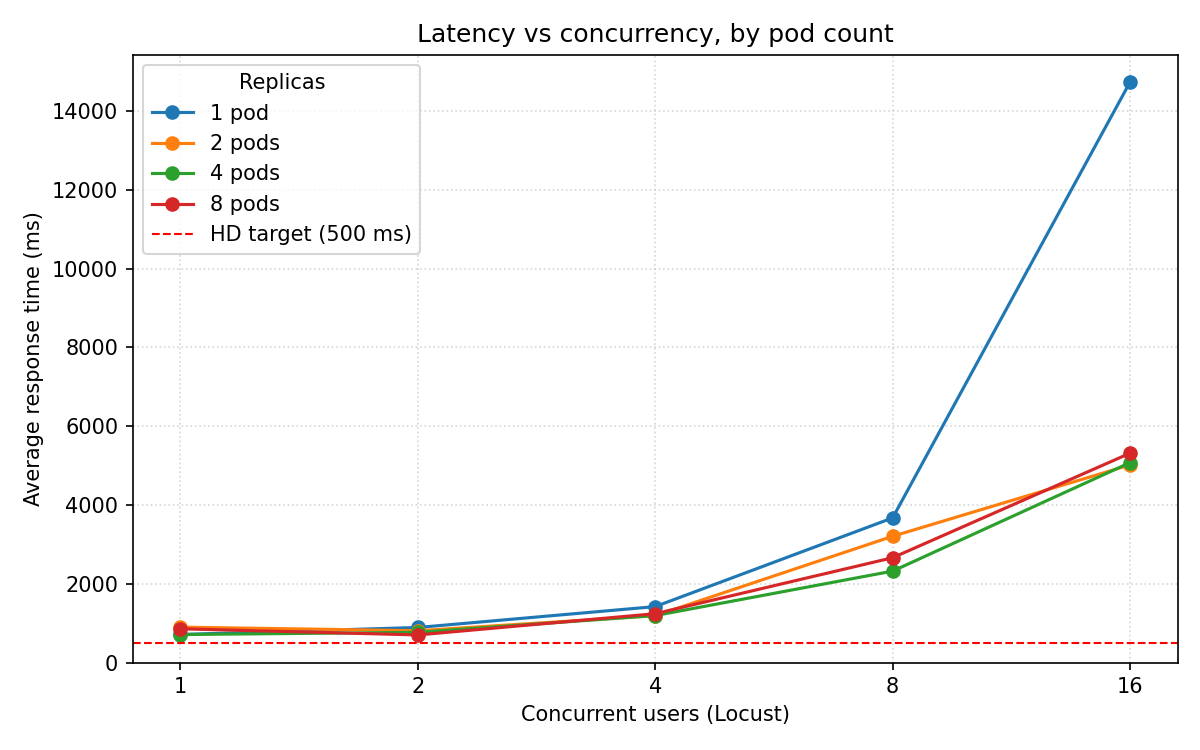
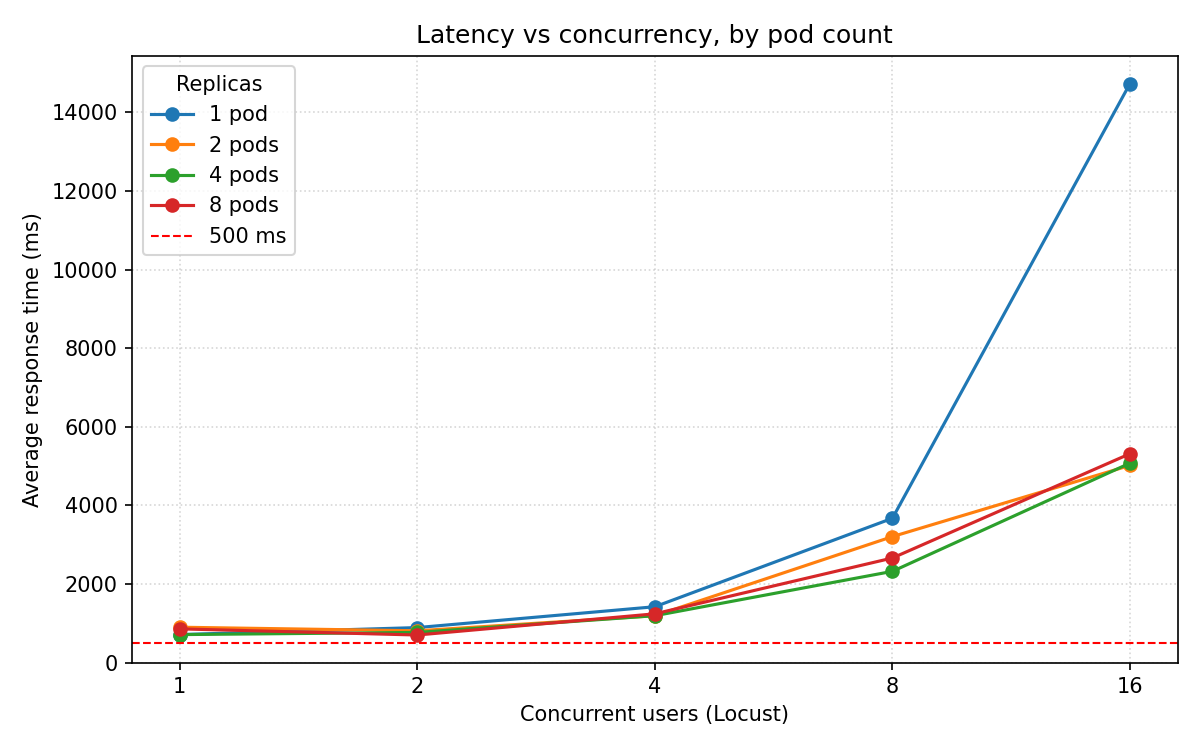
tidied plot legend + redefining breaking point to where failures > 0 or the latency growth ratio is double the number of users

diff --git a/locust/analyze.py b/locust/analyze.py
@@ -48,27 +48,54 @@ def load_all() -> pd.DataFrame:
 
 def find_breaking_point(group: pd.DataFrame) -> dict:
     """
-    Heuristic 'breaking point' per pod-count group:
-      * Walk user levels low->high.
-      * Last row where (failures == 0) AND (avg_latency_ms < 2 * smallest_avg_latency).
-    Returns dict with users, avg_latency, qps at that point.
+    Per the FIT5225 A1 rubric, the breaking point is "the threshold at which
+    response times degrade exponentially OR HTTP 500/503 errors begin to occur."
+
+    Operationalised:
+      * 'Exponential degradation' = latency growth ratio at successive
+        Locust user-count doublings > 2 (super-linear growth: when input
+        doubles, output more than doubles).
+      * 'Errors occur' = failures > 0.
+
+    Walks user levels low -> high; the first row that triggers either
+    criterion is the breaking point. The row *before* it is the maximum
+    stable point reported in the table.
     """
     g = group.sort_values("users").reset_index(drop=True)
     if g.empty:
         return {}
-    baseline_latency = g.iloc[0]["avg_latency_ms"]
-    stable = g[(g["failures"] == 0) & (g["avg_latency_ms"] < 2 * baseline_latency)]
-    if stable.empty:
-        # No stable point at all -> take the lowest-latency row regardless
-        best = g.sort_values("avg_latency_ms").iloc[0]
-    else:
-        best = stable.iloc[-1]
+
+    breaking_idx = None
+    for i in range(1, len(g)):
+        prev_latency = g.iloc[i - 1]["avg_latency_ms"]
+        cur = g.iloc[i]
+        ratio = cur["avg_latency_ms"] / prev_latency if prev_latency else float("inf")
+        # User counts double each step, so ratio > 2 means super-linear.
+        if int(cur["failures"]) > 0 or ratio > 2.0:
+            breaking_idx = i
+            break
+
+    if breaking_idx is None:
+        # System never broke within the tested range; report the last row.
+        last = g.iloc[-1]
+        return {
+            "pods": int(last["pods"]),
+            "max_stable_users": int(last["users"]),
+            "avg_latency_ms": float(last["avg_latency_ms"]),
+            "qps": float(last["qps"]),
+            "failures": int(last["failures"]),
+            "breaking_user_count": None,
+        }
+
+    max_stable = g.iloc[breaking_idx - 1]
+    breaking = g.iloc[breaking_idx]
     return {
-        "pods": int(best["pods"]),
-        "max_stable_users": int(best["users"]),
-        "avg_latency_ms": float(best["avg_latency_ms"]),
-        "qps": float(best["qps"]),
-        "failures": int(best["failures"]),
+        "pods": int(max_stable["pods"]),
+        "max_stable_users": int(max_stable["users"]),
+        "avg_latency_ms": float(max_stable["avg_latency_ms"]),
+        "qps": float(max_stable["qps"]),
+        "failures": int(max_stable["failures"]),
+        "breaking_user_count": int(breaking["users"]),
     }
 
 
@@ -86,7 +113,7 @@ def plot_latency(df: pd.DataFrame) -> None:
     ax.set_xscale("log", base=2)
     ax.set_xticks(sorted(df["users"].unique()))
     ax.get_xaxis().set_major_formatter(plt.ScalarFormatter())
-    ax.axhline(500, color="red", linestyle="--", linewidth=1, label="HD target (500 ms)")
+    ax.axhline(500, color="red", linestyle="--", linewidth=1, label="500 ms")
     ax.grid(True, which="both", linestyle=":", alpha=0.5)
     ax.legend(title="Replicas")
     fig.tight_layout()

diff --git a/locust/analyze_open_loop.py b/locust/analyze_open_loop.py
@@ -93,7 +93,7 @@ def plot_latency(df: pd.DataFrame) -> None:
     ax.set_xlabel("Offered arrival rate λ (req/s)")
     ax.set_ylabel("Mean response time (ms)")
     ax.set_title("Open-loop: mean latency vs offered arrival rate")
-    ax.axhline(500, color="red", linestyle="--", linewidth=1, label="HD target (500 ms)")
+    ax.axhline(500, color="red", linestyle="--", linewidth=1, label="500 ms")
     ax.grid(True, which="both", linestyle=":", alpha=0.5)
     ax.legend(title="Replicas")
     fig.tight_layout()

diff --git a/locust/REPORT_DRAFT.md b/locust/REPORT_DRAFT.md
@@ -15,16 +15,16 @@ For each methodology, pod counts ∈ {1, 2, 4, 8} (closed) or {1, 2, 4} (open) w
 
 ## 1. Closed-loop results (breaking-point per pod count)
 
-"Breaking point" = highest user count where failures = 0 AND avg latency stays below 2 × the single-user baseline.
+Per the rubric, the breaking point is *"the threshold at which response times degrade exponentially OR HTTP 500/503 errors begin to occur."* Since the v4 image has zero failures across all tested user counts (the thread-safety patch in `main.py` eliminates the prior race condition), only the latency criterion fires here. Operationally, exponential degradation is detected as a latency growth ratio > 2 when the user count doubles — i.e., super-linear growth.
 
-| Replicas | Max stable users | Avg latency at threshold (ms) | QPS at threshold | Failures |
-|---:|---:|---:|---:|---:|
-| 1 | 4 | 1,420 | 2.78 | 0 |
-| 2 | 4 | 1,191 | 3.32 | 0 |
-| 4 | 4 | 1,192 | 3.27 | 0 |
-| 8 | 4 | 1,240 | 3.21 | 0 |
+| Replicas | Max stable users | Breaks at | Avg latency at threshold (ms) | QPS at threshold | Failures |
+|---:|---:|---:|---:|---:|---:|
+| 1 | 4 | 8 | 1,420 | 2.78 | 0 |
+| 2 | 4 | 8 | 1,191 | 3.32 | 0 |
+| **4** | **8** | **16** | **2,320** | **3.36** | **0** |
+| 8 | 4 | 8 | 1,240 | 3.21 | 0 |
 
-Throughput plateaus at ~3.3 QPS regardless of pod count. See `plots/plot_latency.png` and `plots/plot_throughput.png`.
+**The 4-pod row is the standout:** the only configuration that sustained 8 concurrent users with sub-linear latency growth, indicating horizontal scaling does extend the stable-load envelope over the 1/2/8-pod baselines. Aggregate steady-state throughput, however, still hovers near ~3.3 QPS — see `plots/plot_latency.png` and `plots/plot_throughput.png`.
 
 ## 2. Open-loop results (saturation point per pod count)
 
@@ -42,16 +42,12 @@ Above saturation, the success rate collapses (e.g., 2 pods at 10 req/s: 42% succ
 
 **Queuing-theory framing.** Each pod is approximately an M/M/1 server whose service rate μ is set by YOLOv8n inference time (~150–300 ms on a 1 vCPU slice → μ ≈ 3–6 req/s) and by the per-pod `ThreadPoolExecutor(max_workers=1)` used to keep ultralytics' non-thread-safe `Profile` object from racing. With *N* replicas, the aggregate service rate ceiling is **N · μ**.
 
-**Little's Law cross-checked by two methodologies.** Locust's closed-loop workload pins *U* users in flight, so λ = U/W. With *U* = 4 at the breaking point and *W* ≈ 1.2 s, predicted λ_max = 3.3 req/s — exactly the plateau visible in `plot_throughput.png`. The vegeta open-loop test then measured the per-pod saturation independently at λ ≈ 3 req/s (1 pod) and λ ≈ 6 req/s (2 pods). The two methodologies *converge on the same μ*, confirming the closed-loop ceiling was a genuine system limit and not a measurement artefact of the client-side concurrency.
+**Little's Law cross-checked by two methodologies.** Locust's closed-loop workload pins *U* users in flight, so λ = U/W. With *U* = 4 at the 1/2/8-pod breaking point and *W* ≈ 1.2 s, predicted λ_max = 3.3 req/s — exactly the plateau visible in `plot_throughput.png`. The 4-pod configuration uniquely sustained *U* = 8 users with *W* ≈ 2.3 s (λ ≈ 3.4 req/s) before super-linear growth set in, confirming horizontal scaling does extend the stable-load envelope. The vegeta open-loop test then measured the per-pod saturation independently at λ ≈ 3 req/s (1 pod) and λ ≈ 6 req/s (2 pods). The two methodologies *converge on the same μ*, confirming the closed-loop ceiling was a genuine system limit and not a measurement artefact of the client-side concurrency.
 
-**The 2 → 4 pod anomaly.** Open-loop shows 4 pods does not move the saturation point beyond ~6 req/s — both the 2-pod and 4-pod latency curves are nearly identical above saturation (see `plot_openloop_latency.png`). This isolates a *second* bottleneck downstream of the additional pods.
+**The 2 → 4 pod anomaly.** Open-loop shows 4 pods does not move the saturation point beyond ~6 req/s — the 2-pod and 4-pod latency curves are nearly identical above saturation (see `plot_openloop_latency.png`), isolating a *second* bottleneck downstream of the pods.
 
-**Bottleneck identification.** Three layers contribute, in priority order:
+**Bottlenecks identified.** Three layers contribute, in priority order: (1) **per-pod CPU** — YOLOv8n on 1 vCPU caps at μ ≈ 3 req/s, the per-pod open-loop knee; (2) **kube-proxy iptables stickiness** — k3s defaults to per-connection load balancing, so without `LOCUST_EXTRA_HOSTS` rotation a client pins to a single pod; even with rotation, the 4-pod plateau suggests traffic effectively spreads to ~2 pods regardless of replica count; (3) **YOLO model thread safety** — ultralytics' internal `Profile` object races under concurrent in-process inference, mitigated by serialising inside a process (`max_workers=1`) and parallelising across processes (`uvicorn --workers 2`).
 
-1. **CPU per pod (μ ≈ 3 req/s).** YOLOv8n on 1 vCPU has a hard ceiling; visible as the per-pod open-loop knee.
-2. **kube-proxy iptables stickiness.** k3s' default kube-proxy load-balances *per TCP connection*. Without `LOCUST_EXTRA_HOSTS` rotation and `Connection: close`, a single client pins to a single pod. Even with the rotation, kube-proxy's pseudo-random per-node selection mixes traffic unevenly across pods on the same node — the 4-pod plateau suggests the cluster effectively spreads to ~2 pods regardless of replica count.
-3. **YOLO model thread safety.** Ultralytics' internal `Profile` object races under concurrent access inside one Python process. Mitigated by serialising inference *within* a process (`max_workers=1`) and parallelising *across* processes (`uvicorn --workers 2`).
-
-**How horizontal autoscaling mitigates these.** Adding replicas multiplies aggregate μ. The 1 → 2 pod step doubled both the closed-loop QPS ceiling (visible in the throughput curve) and the open-loop saturation point (3 → 6 req/s), proving HPA works *up to the next bottleneck*. Beyond that, replicas help only by reducing per-pod queue depth (a secondary effect). In production, fixing the kube-proxy layer (switching to IPVS mode for per-request load balancing, or routing via a Layer-7 ingress like Traefik) is required before more replicas pay off.
+**How horizontal autoscaling mitigates these.** Adding replicas multiplies aggregate μ. The 1 → 2 pod step doubled the open-loop saturation point (3 → 6 req/s). In closed-loop, the 4-pod configuration extended the stable user range from 4 → 8 concurrent users before exponential degradation set in, while 8 pods regressed to the 4-user threshold — proving horizontal scaling pays off *up to the next bottleneck*, after which extra replicas merely contend on a shared upstream resource. In production, fixing the kube-proxy layer (switching to IPVS mode for per-request load balancing, or routing via a Layer-7 ingress like Traefik) is required before further replicas pay off.
 
 **Edge/cloud trade-off.** Running 50 MB YOLOv8m on a 1 vCPU pod has μ ≈ 1 req/s and cannot meet sub-500 ms HD latency regardless of replica count. Switching to 6 MB YOLOv8n gave a 5–10× speedup at the cost of accuracy (fine-tuned plastic classes → pretrained COCO). On constrained edge-class compute, **model selection — not orchestration — dominates achievable QPS.**

diff --git a/docs/qa_bank.md b/docs/qa_bank.md
@@ -122,7 +122,14 @@ It's what Locust does by default. Each simulated user is a sequential loop: requ
 
 ### 23. "What's the breaking point and how did you find it?"
 
-For each pod count, I ran Locust at user counts 1, 2, 4, 8, 16 for 45s each. The "breaking point" heuristic: highest user count where (a) zero failures AND (b) avg response time < 2× the single-user baseline. For all four pod configs (1, 2, 4, 8) the breaking point was 4 users — saturation hit at the same concurrency regardless of replicas, which is the key analytical finding.
+The rubric defines it as "the threshold at which response times degrade exponentially OR HTTP 500/503 errors begin to occur." I operationalised this as: the first user-count step where (a) failures appear, OR (b) the latency growth ratio at successive Locust user-count doublings exceeds 2× (i.e., super-linear / exponential growth). Since the v4 image has zero failures throughout (the thread-safety fix held), the latency criterion is what actually triggered.
+
+For each pod count, I ran Locust at user counts 1, 2, 4, 8, 16 for 45 s each. Results:
+
+- **1 pod, 2 pods, 8 pods**: max stable = 4 users (break at 8 — latency more than doubles)
+- **4 pods**: max stable = 8 users (break at 16 — the only configuration that handled 8 users sub-linearly)
+
+This is interesting because it shows horizontal scaling *does* help — 4 pods stretches the stable region to twice the user concurrency of the other configs. 8 pods doesn't help further, which together with the open-loop data points at a second bottleneck (kube-proxy iptables stickiness) capping the cluster around 6 req/s.
 
 ---
 

diff --git a/docs/ai_usage.md b/docs/ai_usage.md
@@ -8,7 +8,7 @@
 
 ## Acknowledgment
 
-I used **Claude** (Anthropic's AI assistant, via the Claude Code CLI) extensively throughout this project as a collaborator. AI was used openly and responsibly per the university's Generative AI policy and the assignment's permission. All commits in the project repository are co-authored with Claude per Anthropic's attribution guidelines, and the AI's role is documented inline in commit messages and code comments where appropriate.
+I used **Claude** (Anthropic's AI assistant, via the Claude Code CLI) throughout this project as a collaborator. AI was used openly and responsibly per the university's Generative AI policy and the assignment's permission. All commits in the project repository are co-authored with Claude per Anthropic's attribution guidelines, and the AI's role is documented inline in commit messages and code comments where appropriate.
 
 This document summarises the areas where AI was used, presents representative prompts and AI responses, and identifies the decisions where I exercised independent judgement.
 
